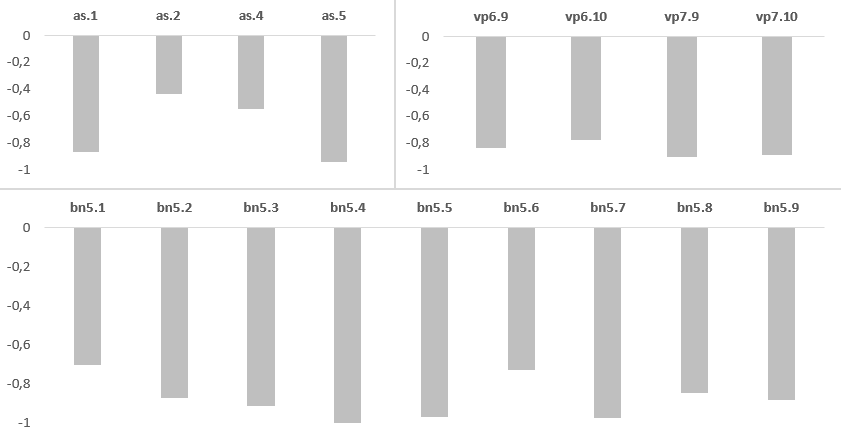
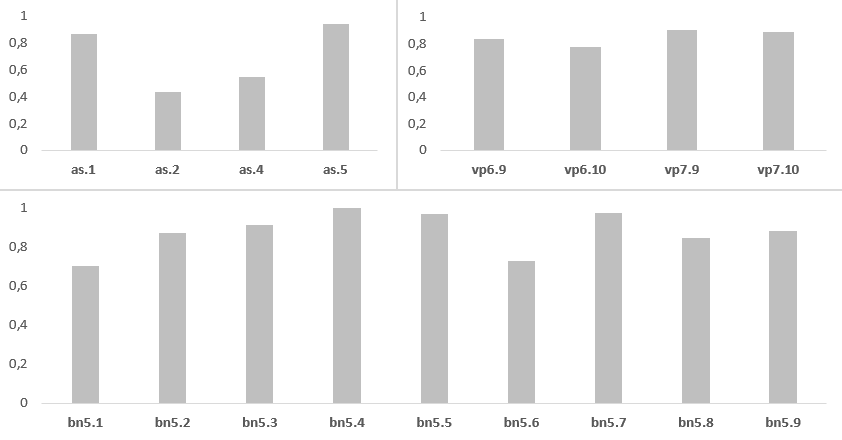
Исправлен слайд с корреляцией и с популяцией GA

diff --git a/slides/slides.tex b/slides/slides.tex
@@ -165,7 +165,7 @@ the whole search space by several orders of magnitude).
 
 %------------------------------------------------
 
-\begin{frame}{Results $\rho(r(\xi, \xi*),\varphi(\xi))$ for all series}
+\begin{frame}{Results $-\rho(r(\xi, \xi*),\varphi(\xi))$ for all series}
     \begin{figure}
     \includegraphics[scale=0.8]{ro}
     \end{figure}
@@ -218,9 +218,9 @@ line performance will not change.
 
 %-----------------------------------------------
 \begin{frame}{Cluster structure of GA population of as.4 problem}
+    \vspace{-0.5cm}
     \begin{figure}
-    \includegraphics[scale=0.4]{ga_klaster}
-    \includegraphics[scale=0.43]{gals_klaster}
+    \includegraphics[scale=0.5]{ga_klasters}
     \end{figure}
         \begin{block}{Cluster structure}
  The experiments have shown, the population of the pure GA, and that of the GA with local search, contain individuals from different clusters.
